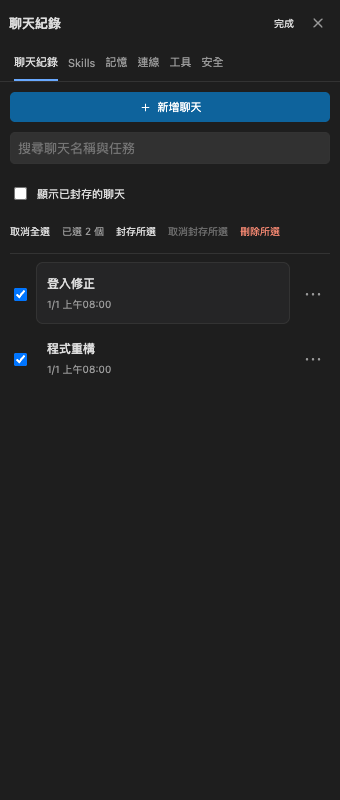
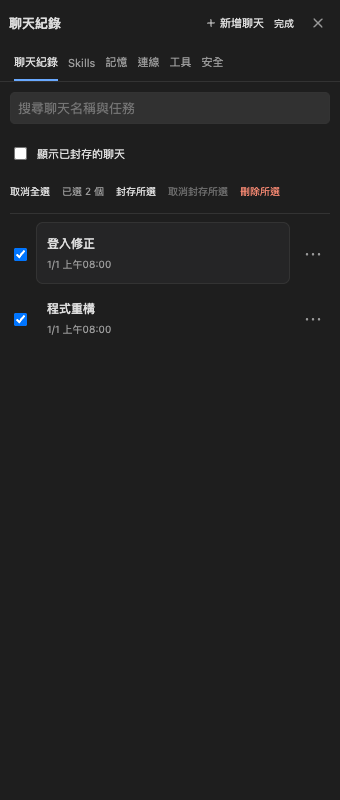
Restore welcome shortcuts and keep new chat visible in history

diff --git a/media/agent-ui.js b/media/agent-ui.js
@@ -44,6 +44,11 @@ function markdown(text) {
   return body;
 }
 
+function isDiagnosticNotice(message) {
+  return message.role === 'notice' && (message.category === 'diagnostic' || /^(?:當次環境已驗證最多\s+\d+|遇到登入失效或服務限制，立即停止，降級為單一請求|較低組已驗證至|測試已停止，降級為單一請求|未確認兩個以上請求可可靠重疊)/.test(message.text || ''));
+}
+function hasConversation(messages) { return messages.some(message => ['user', 'assistant', 'stream', 'tool', 'artifact', 'commentary'].includes(message.role)); }
+
 function empty() {
   const welcome = element('div', 'welcome');
   const mark = element('div', 'welcome-mark'); mark.append(icon('spark'));
@@ -153,6 +158,7 @@ function renderMessage(message) {
 }
 function nearBottom() { return $('messages').scrollHeight - $('messages').scrollTop - $('messages').clientHeight < 100; }
 function addMessage(message, replace = false) {
+  if (isDiagnosticNotice(message)) return;
   const follow = nearBottom(); const old = nodes.get(message.id); const open = old?.querySelector('details')?.open; const rawOpen = old?.querySelector('.raw-result')?.open; const userExpanded = old?.querySelector('.user-expand')?.getAttribute('aria-expanded') === 'true';
   const item = renderMessage(message);
   if (old && replace) {
@@ -162,7 +168,7 @@ function addMessage(message, replace = false) {
     if (rawOpen && item.querySelector('.raw-result')) item.querySelector('.raw-result').open = true;
     old.replaceWith(item); updateExecutionGroup(group);
   } else {
-    $('messages').querySelector('.welcome')?.remove();
+    if (hasConversation([message])) $('messages').querySelector('.welcome')?.remove();
     if (message.role === 'tool') {
       let group = $('messages').lastElementChild;
       if (group?.classList.contains('execution-group')) {
@@ -185,7 +191,9 @@ function renderSession(value) {
   for (const group of $('messages').querySelectorAll('.execution-group[data-manual]')) for (const row of group.querySelectorAll('.message.tool')) groupChoices.set(row.dataset.id, group.open);
   session = value; nodes.clear(); $('messages').replaceChildren();
   $('rename').textContent = value.title;
-  if (!value.messages.length) $('messages').append(empty()); else value.messages.forEach(message => addMessage(message));
+  const visible = value.messages.filter(message => !isDiagnosticNotice(message));
+  if (!hasConversation(visible)) $('messages').append(empty());
+  visible.forEach(message => addMessage(message));
   for (const id of expandedUsers) nodes.get(id)?.querySelector('.user-expand')?.click();
   for (const id of openRaw) { const details = nodes.get(id)?.querySelector('.raw-result'); if (details) details.open = true; }
   for (const id of openTools) { const details = nodes.get(id)?.querySelector('.tool-card'); if (details) details.open = true; if (openRaw.has(id) && nodes.get(id)?.querySelector('.raw-result')) nodes.get(id).querySelector('.raw-result').open = true; }
@@ -323,6 +331,7 @@ function resetHistoryEditing() { historyEditing = false; includeArchived = false
 function openDrawer(nextTab) { resetHistoryEditing(); tab = nextTab; $('drawer').hidden = false; if (tab === 'memory') send('memory'); renderDrawer(); }
 function renderDrawer() {
   $('drawerTitle').textContent = { sessions: '聊天紀錄', skills: 'Skills', connection: '連線', security: '安全與權限', tools: '工具', memory: '記憶與隱私' }[tab];
+  $('historyNew').hidden = tab !== 'sessions'; $('historyNew').disabled = state.busy || !!approval;
   $('historyEdit').hidden = tab !== 'sessions'; $('historyEdit').textContent = historyEditing ? '完成' : '編輯';
   $('historyEdit').disabled = !historyEditing && (state.busy || !!approval);
   $('historyEdit').title = historyEditing ? '結束編輯並清除選取' : '選取聊天以進行批次管理';
@@ -330,7 +339,6 @@ function renderDrawer() {
   const content = $('drawerContent'); content.replaceChildren();
   if (tab === 'sessions') {
     const locked = state.busy || !!approval;
-    const create = button('新增聊天', 'primary-button full-width', () => { send('new'); $('drawer').hidden = true; }, 'plus'); create.disabled = locked; if (historyEditing) content.append(create);
     const search = element('input', 'history-search'); search.placeholder = '搜尋聊天名稱與任務'; search.setAttribute('aria-label', '搜尋聊天紀錄'); search.value = sessionQuery;
     search.addEventListener('input', () => { sessionQuery = search.value; selectedSessions.clear(); filterSessions(); }); content.append(search);
     const archived = element('label', 'privacy-option'); const show = element('input'); show.type = 'checkbox'; show.checked = includeArchived;
@@ -534,6 +542,7 @@ for (const key of ['agent', 'depth', 'permission']) $(key).addEventListener('cha
 $('web').addEventListener('click', () => send('option', { key: 'web', value: !state.options.web }));
 $('history').addEventListener('click', () => openDrawer('sessions')); $('settings').addEventListener('click', () => openDrawer('connection')); $('skills').addEventListener('click', () => openDrawer('skills')); $('model').addEventListener('click', () => openDrawer('tools'));
 $('closeDrawer').addEventListener('click', () => { resetHistoryEditing(); $('drawer').hidden = true; });
+$('historyNew').addEventListener('click', () => { resetHistoryEditing(); send('new'); $('drawer').hidden = true; });
 $('historyEdit').addEventListener('click', () => { if (historyEditing) resetHistoryEditing(); else if (!state.busy && !approval) { historyEditing = true; selectedSessions.clear(); } renderDrawer(); });
 document.querySelectorAll('[data-tab]').forEach(item => item.addEventListener('click', () => { if (tab !== item.dataset.tab) resetHistoryEditing(); tab = item.dataset.tab; if (tab === 'memory') send('memory'); renderDrawer(); }));
 for (const [id, kind] of [['new', 'new'], ['rename', 'rename'], ['export', 'export'], ['workspace', 'chooseWorkspace'], ['stop', 'stop'], ['attach', 'attach'], ['addContext', 'addContext']]) $(id).addEventListener('click', () => send(kind));

diff --git a/scripts/ui-fixture.js b/scripts/ui-fixture.js
@@ -22,6 +22,18 @@ async function testUI(page, origin) {
   assert.equal(await page.locator('#composer').evaluate(node => !!node.nextElementSibling.querySelector('#workspace')), true);
   assert.equal(await page.locator('#loginView, #browserImage').count(), 0, 'no screenshot login surface');
   assert.equal(await page.locator('#loginNotice').isHidden(), true);
+  await send({ kind: 'session', session: { id: 'welcome-fixture', title: '新工作階段', messages: [
+    { id: 'diag1', role: 'notice', text: '遇到登入失效或服務限制，立即停止，降級為單一請求；不會重試或繞過限制。' },
+    { id: 'diag2', role: 'notice', text: '當次環境已驗證最多 4 個同時串流請求；非官方上限或永久保證。' }
+  ], changes: [], plan: [] } });
+  await page.locator('.welcome').waitFor({ state: 'visible' }); assert.equal(await page.locator('.suggestion').count(), 4); assert.equal(await page.locator('.message.notice').count(), 0);
+  await send({ kind: 'message', message: { id: 'diag3', role: 'notice', text: '當次環境已驗證最多 4 個同時串流請求；非官方上限或永久保證。' } });
+  assert.equal(await page.locator('.suggestion').count(), 4);
+  await page.screenshot({ path: path.join(__dirname, '..', '.local', 'welcome-ui.png') });
+  await send({ kind: 'message', message: { id: 'real-error', role: 'error', text: '背景連線失敗，需要處理' } });
+  await page.locator('.message.error').waitFor({ state: 'visible' }); assert.equal(await page.locator('.suggestion').count(), 4);
+  await send({ kind: 'session', session: { id: 'fixture', title: 'Fixture', messages: [{ id: 'm1', role: 'assistant', text: '本機歷史' }], hasMore: true, before: 1, changes: [], plan: [] } });
+
   await send(state); await page.waitForFunction(() => document.getElementById('connectionActions').hidden);
   await send({ ...state, connection: { ready: false, authentication: 'required' } });
   await page.getByRole('button', { name: '登入 NTPU AI', exact: true }).waitFor({ state: 'visible' });
@@ -133,10 +145,16 @@ async function testUI(page, origin) {
   await page.locator('.session-row').filter({ hasText: '程式重構' }).click();
   assert.deepEqual(await page.evaluate(() => window.hostMessages.at(-1)), { kind: 'switch', id: 'other' });
   assert.equal(await page.locator('#drawer').isHidden(), true);
-  await page.locator('#history').click(); await search.fill('重構'); assert.equal(await page.locator('.session-item').count(), 1);
+  await page.locator('#history').click();
+  assert.equal(await page.locator('#historyNew').isVisible(), true);
+  await page.locator('#historyNew').click(); assert.deepEqual(await page.evaluate(() => window.hostMessages.at(-1)), { kind: 'new' });
+  assert.equal(await page.locator('#drawer').isHidden(), true); await page.locator('#history').click();
+  await search.fill('重構'); assert.equal(await page.locator('.session-item').count(), 1);
   await send({ kind: 'capabilities', skills: [], servers: [], tools: [] });
   assert.equal(await search.inputValue(), '重構'); assert.equal(await search.evaluate(node => node === document.activeElement), true);
   await page.getByRole('button', { name: '編輯', exact: true }).click();
+  assert.equal(await page.locator('#historyNew').isVisible(), true); assert.equal(await page.locator('#drawerContent').getByRole('button', { name: '新增聊天', exact: true }).count(), 0);
+
   assert.equal(await page.locator('.session-select').count(), 1);
   await page.locator('.session-menu > summary').click(); await page.getByRole('button', { name: '重新命名', exact: true }).click();
   assert.equal(await page.evaluate(() => window.hostMessages.at(-1).id), 'other');

diff --git a/media/index.html b/media/index.html
@@ -75,7 +75,7 @@
 <div class="scope-bar"><button id="workspace" class="scope-button" title="選擇這個聊天使用的專案資料夾"><svg><use href="#i-file"/></svg><span>專案</span></button><div id="connectionActions" class="connection-actions"><button id="connect" class="connection-button" title="登入 NTPU AI"><i id="connectionDot"></i><span id="connectionLabel">登入</span></button></div></div>
 <footer class="permissions-footer"><svg><use href="#i-shield"/></svg><select id="permission" aria-label="權限模式"><option value="ask">要求核准</option><option value="assisted">協助核准</option><option value="full">完整存取</option></select><span id="permissionDescription">修改與外部操作先確認</span></footer>
 <aside id="drawer" class="drawer" hidden aria-label="工作階段與工具設定">
-  <div class="drawer-header"><strong id="drawerTitle">工作階段</strong><button id="historyEdit" class="text-button history-edit" title="選取聊天以進行批次管理" hidden>編輯</button><button id="closeDrawer" class="icon-button" aria-label="關閉面板"><svg><use href="#i-close"/></svg></button></div>
+  <div class="drawer-header"><strong id="drawerTitle">工作階段</strong><button id="historyNew" class="text-button history-new" title="建立新的聊天" aria-label="新增聊天" hidden><svg><use href="#i-plus"/></svg><span>新增聊天</span></button><button id="historyEdit" class="text-button history-edit" title="選取聊天以進行批次管理" hidden>編輯</button><button id="closeDrawer" class="icon-button" aria-label="關閉面板"><svg><use href="#i-close"/></svg></button></div>
   <nav class="drawer-tabs"><button data-tab="sessions" class="active">聊天紀錄</button><button data-tab="skills">Skills</button><button data-tab="memory">記憶</button><button data-tab="connection">連線</button><button data-tab="tools">工具</button><button data-tab="security">安全</button></nav>
   <div id="drawerContent" class="drawer-content"></div>
 </aside>

diff --git a/media/agent.css b/media/agent.css
@@ -121,3 +121,5 @@
 .user-body.clamped-request{display:-webkit-box;-webkit-line-clamp:6;-webkit-box-orient:vertical;overflow:hidden}.user-expand{display:flex;margin:5px 0 0 auto;padding:2px 3px;font-size:10px}
 
 #prompt{font-size:13px;line-height:1.7}.control-row select,.model-button{font-size:11px}.scope-button{font-size:11px}.permissions-footer select{font-size:10px}.permissions-footer>span{font-size:9px}.context-chip,.attachment-card{font-size:11px}
+
+.history-new{flex:none;gap:3px;margin-right:10px;font-size:11px}.history-new svg{width:12px;height:12px}

diff --git a/src/app.js b/src/app.js
@@ -291,7 +291,7 @@ class AgentApp {
       this.parallelVerification = evidence;
       await this.context.globalState.update('ntpuAI.parallelVerification', evidence);
       await fs.writeFile(path.join(directory, 'concurrency.json'), JSON.stringify(evidence, null, 2), { mode: 0o600 });
-      this.notice(result.message); return result;
+      void vscode.window.showInformationMessage?.(result.message); return result;
     })();
     try { return await this.concurrencyOperation; }
     finally {

diff --git a/VALIDATION.md b/VALIDATION.md
@@ -7,6 +7,9 @@
 - 子任務先顯示可讀 Markdown 結果，原始資料可另行展開；讀檔行數、搜尋結果及檔案儲存狀態提供可讀呈現。
 - 143 單元測試及 build 通過。localhost Webview 驗收包括 260／380／720 px 的右側對齊、Agent 全寬及無橫向溢出；執行紀錄完成收合／異常提示、手動開合保留、長提問完整內容與更新狀態、既有子任務取消／歷史編輯／變更撤回操作。截圖使用合成示範資料。
 - 本輪 UI 驗收沒有傳送新的校方模型請求；先前真人驗收範圍與跨平台 SSO 限制保留於下列紀錄。
+- 追加首頁修正：歷史中的並行診斷通知不再取代四個快捷按鈕；沒有提問但有真實錯誤時，快捷按鈕與錯誤均保留。新診斷結果在工具設定及 VS Code 通知顯示。聊天紀錄常駐新增聊天，編輯模式不重複生成；點擊送出 new 並關閉列表，批次管理與忙碌時的限制保留。
+- 原生 VS Code 已安裝 0.6.6，使用者重開後確認新版訊息呈現、歷史工具群組與異常提醒；設定頁背景已連線、無須重新登入，既有聊天仍可切換。
+- [0.6.6 CI 38571362640](https://github.com/xujk0217/ntpu-ai-vscode/actions/runs/38571362640)，程式碼提交 `6bd3d70fc8dcddd1bb82914fc013df010ad154bf`：四平台 × Node 20／22 全部八組成功，143 tests、build、localhost BrowserBridge／Webview fixture 與四平台原生 VSIX；Unix Node 22 工作亦包含原生隔離與 OCR fixture。真人跨平台 SSO 與 Windows 完整 OS 沙箱仍待驗收。
 
 ## 0.6.5 真實有限負載與一次重要重試（2026-10-14）
 

diff --git a/CHANGELOG.md b/CHANGELOG.md
@@ -2,6 +2,9 @@
 
 ## 0.6.6
 
+- 無實際提問的首頁恢復四個快捷按鈕；舊並行診斷提示不佔據聊天，新診斷結果顯示於設定與通知。
+- 聊天紀錄頁常駐新增聊天按鈕，一般模式及編輯模式都可使用；批次管理仍只在編輯模式出現。
+
 - 提問靠右泡泡，Agent 全寬 Markdown；長提問支援展開，進度與錯誤有明確層次。
 - 連續工具與子任務收整為可展開執行紀錄，顯示進行／異常狀態，保留手動展開選擇。
 - 工具詳情先呈現可讀文字、檔案與搜尋結果，完整資料保留於下層；子任務區分探索／研究／審查。
